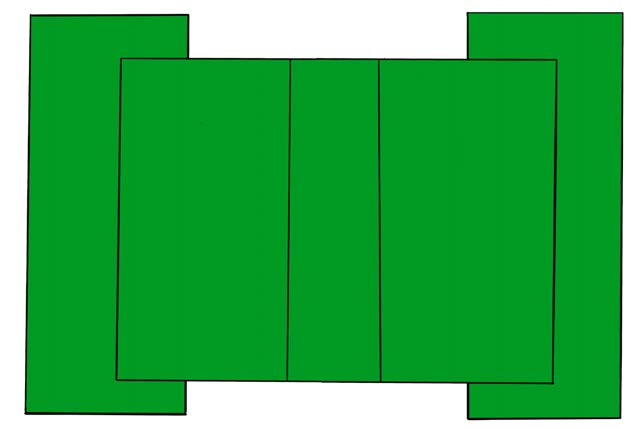
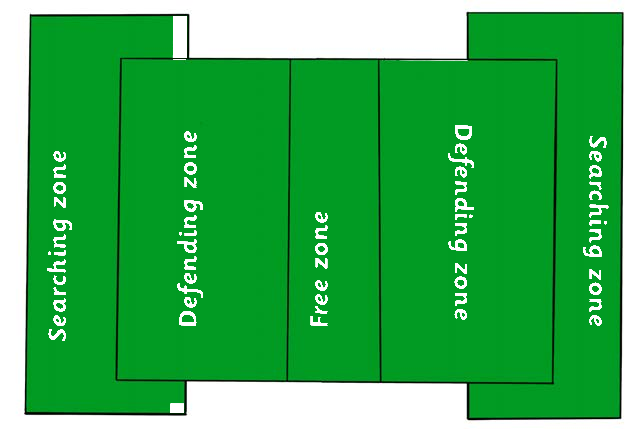
Restore original page 102 court diagram

diff --git a/pg064_sec001.html b/pg064_sec001.html
@@ -52,14 +52,14 @@
     </div>
 
     <div class="relative z-10 mt-6 flex flex-col items-center">
-      <div class="relative w-[640px] max-w-full max-sm:w-full">
-        <img data-id="pg064_im002" src="images/pg064_im002.png" alt="An H-shaped game field divided into five parts: two searching zones on the ends, two defending zones inside, and a free zone in the middle." class="max-w-full rounded-md" style="max-width: 100%; height: auto;">
-        <div class="pointer-events-none absolute inset-0 z-10">
-          <span data-id="pg064_n0022" class="absolute left-[9%] top-1/2 -translate-y-1/2 -rotate-90 text-[16px] font-bold tracking-wide text-white max-lg:text-[14px] max-sm:text-[10px]">Searching zone</span>
-          <span data-id="pg064_n0023" class="absolute left-[29%] top-1/2 -translate-y-1/2 -rotate-90 text-[16px] font-bold tracking-wide text-white max-lg:text-[14px] max-sm:text-[10px]">Defending zone</span>
-          <span data-id="pg064_n0024" class="absolute left-1/2 top-1/2 -translate-x-1/2 -translate-y-1/2 -rotate-90 text-[16px] font-bold tracking-wide text-white max-lg:text-[14px] max-sm:text-[10px]">Free zone</span>
-          <span data-id="pg064_n0025" class="absolute right-[29%] top-1/2 -translate-y-1/2 -rotate-90 text-[16px] font-bold tracking-wide text-white max-lg:text-[14px] max-sm:text-[10px]">Defending zone</span>
-          <span data-id="pg064_n0026" class="absolute right-[9%] top-1/2 -translate-y-1/2 -rotate-90 text-[16px] font-bold tracking-wide text-white max-lg:text-[14px] max-sm:text-[10px]">Searching zone</span>
+      <div class="w-[640px] max-w-full max-sm:w-full">
+        <img data-id="pg064_im002" src="images/pg064_im002.png" alt="An H-shaped game field divided into five parts: two searching zones on the ends, two defending zones inside, and a free zone in the middle." class="block h-auto w-full max-w-full" style="max-width: 100%; height: auto;">
+        <div class="sr-only">
+          <span data-id="pg064_n0022">Searching zone</span>
+          <span data-id="pg064_n0023">Defending zone</span>
+          <span data-id="pg064_n0024">Free zone</span>
+          <span data-id="pg064_n0025">Defending zone</span>
+          <span data-id="pg064_n0026">Searching zone</span>
         </div>
       </div>
       <p class="mt-5 text-center text-[22px] italic leading-snug text-gray-800 max-lg:text-[20px] max-sm:text-[17px]"><span data-id="pg064_n0027">How to divide the pitch for a ball-searching game</span></p>
@@ -70,7 +70,7 @@
 
     <div class="relative z-50" id="interface-container"></div>
     <div class="relative z-50" id="nav-container"></div>
-    <script src="./assets/offline-preloader.js?v=36"></script>
+    <script src="./assets/offline-preloader.js?v=46"></script>
     <script src="./assets/scorm.js"></script>
     <script src="./assets/base.bundle.local.js"></script>
 </body>

diff --git a/index.html b/index.html
@@ -56,7 +56,7 @@
 
     <div class="relative z-50" id="interface-container"></div>
     <div class="relative z-50" id="nav-container"></div>
-    <script src="./assets/offline-preloader.js?v=45"></script>
+    <script src="./assets/offline-preloader.js?v=46"></script>
     <script src="./assets/scorm.js"></script>
     <script src="./assets/base.bundle.local.js"></script>
 </body>
